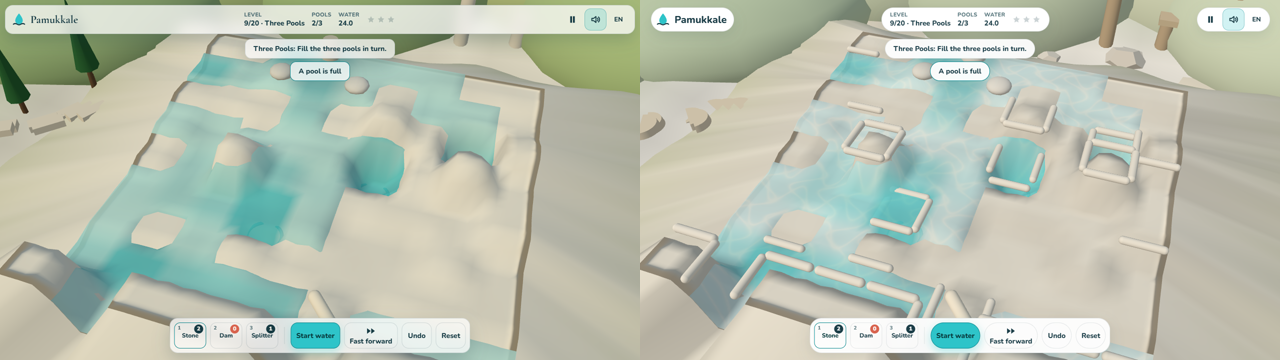
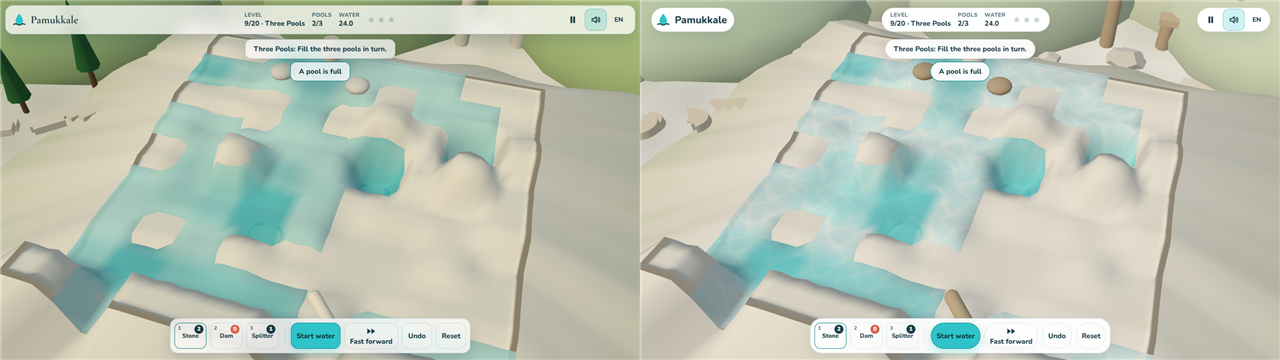
fix: travertine step edges instead of rim tubes, ruin-stone tools
The rim tubes were removed in 029701d. This commit refreshes the level 9
before/after composite from the current branch (the before side is main)
and updates the measured draw calls and triangles and the terrace note in
the README.

Claude-Session: https://claude.ai/code/session_014vMYwwQ3htV8WjCni8q7av

diff --git a/README.md b/README.md
@@ -91,8 +91,8 @@ Turkish is the default language (`L` or the **EN** toggle switches). Progress is
 peach sunset sky, airy white cards with turquoise accents. Palette: travertine `#F5F3EE`, turquoise `#2EC4C9`,
 sunset peach `#FFC9A9`, ruin stone `#CDB89A`, sky `#BFE6FF`.
 
-- **Terraces:** capsule lips on every shelf edge with a step of 1.5 units or more, slope shading, and stepped
-  travertine ledges down the valley sides. The simulation and level data are unchanged.
+- **Terraces:** travertine step edges that catch the light (the steepest shelf edges brighten towards `#FBF8F2`),
+  slope shading, and stepped travertine ledges down the valley sides. The simulation and level data are unchanged.
 - **Scene:** pastel meadow, shrubs, boulders, a pale distant range inside the fog, lathe-turned spring bowl,
   rounded theatre benches and ruin columns.
 - **Water and FX:** shore foam, a scrolling caustic texture, a sparkle when a tool is placed, slowly drifting clouds.
@@ -103,8 +103,8 @@ Before and after, same level and camera (level 9):
 
 <p align="center"><img src="docs/redesign-before-after.png" width="100%" alt="Level 9 before (left) and after (right) the redesign"></p>
 
-Measured with headless Chrome at 1280x720 on the redesign branch: draw calls 17 before, 22 after (level 9 in play);
-triangles 26k before, 48k after. Frame rate is not claimed; headless rAF is not a GPU budget. The banner, card and
+Measured with headless Chrome at 1280x720 on the redesign branch: draw calls 17 before, 21 after (level 9 in play);
+triangles 26k before, 34k after. Frame rate is not claimed; headless rAF is not a GPU budget. The banner, card and
 gameplay GIF still show the old look until the media pass.
 
 <table>
